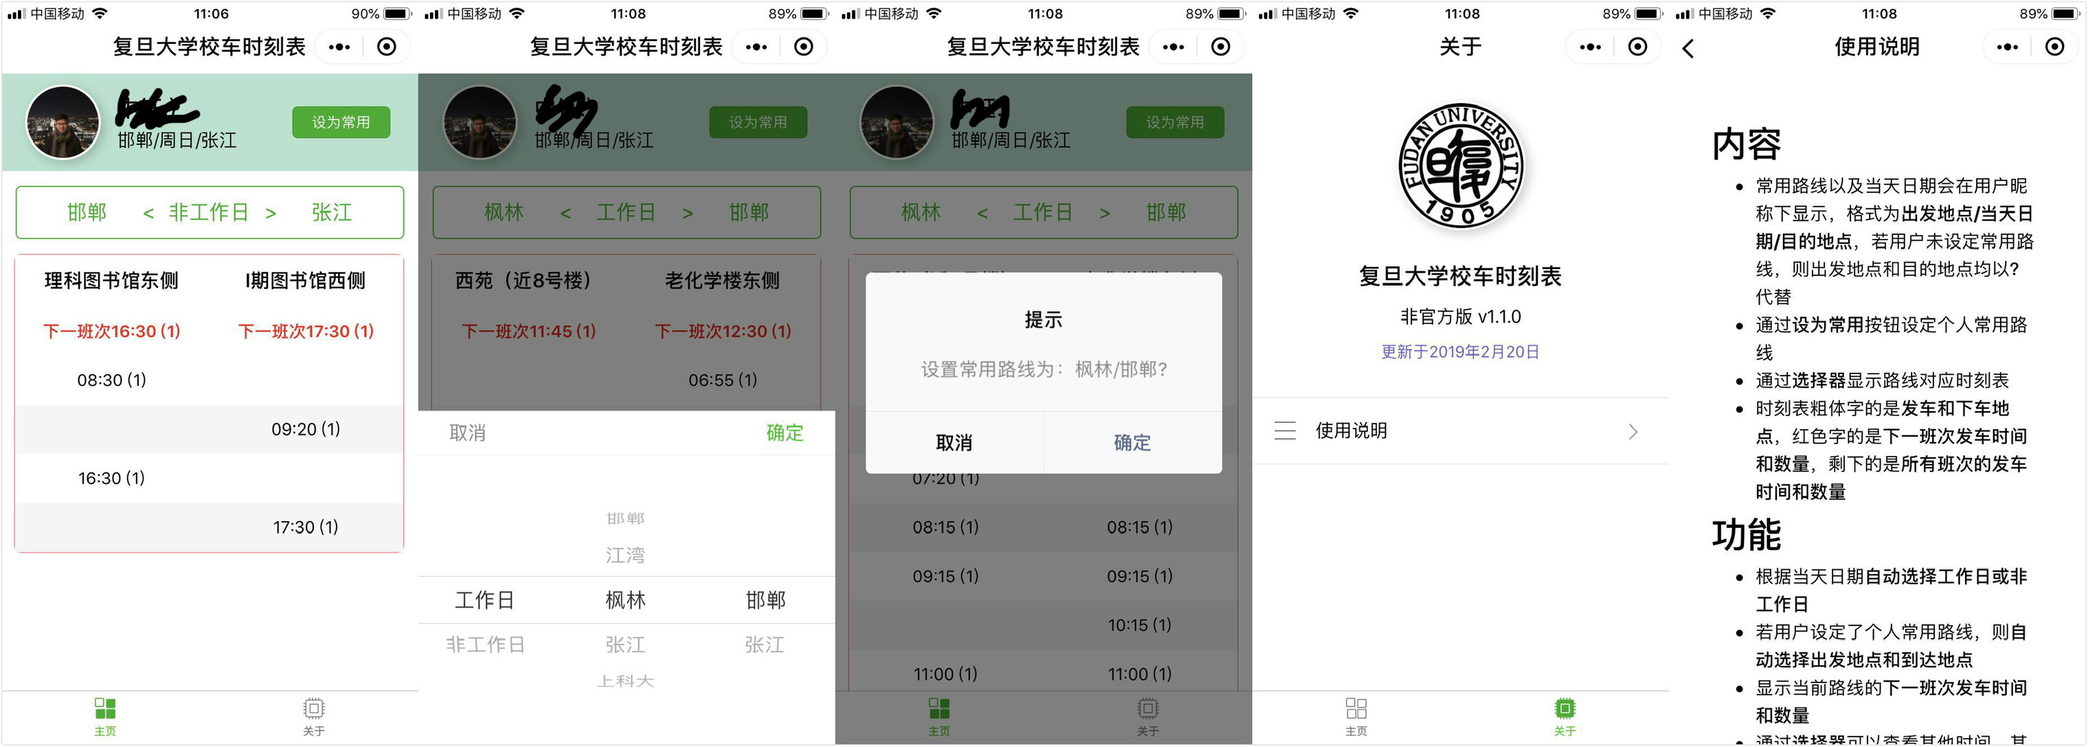
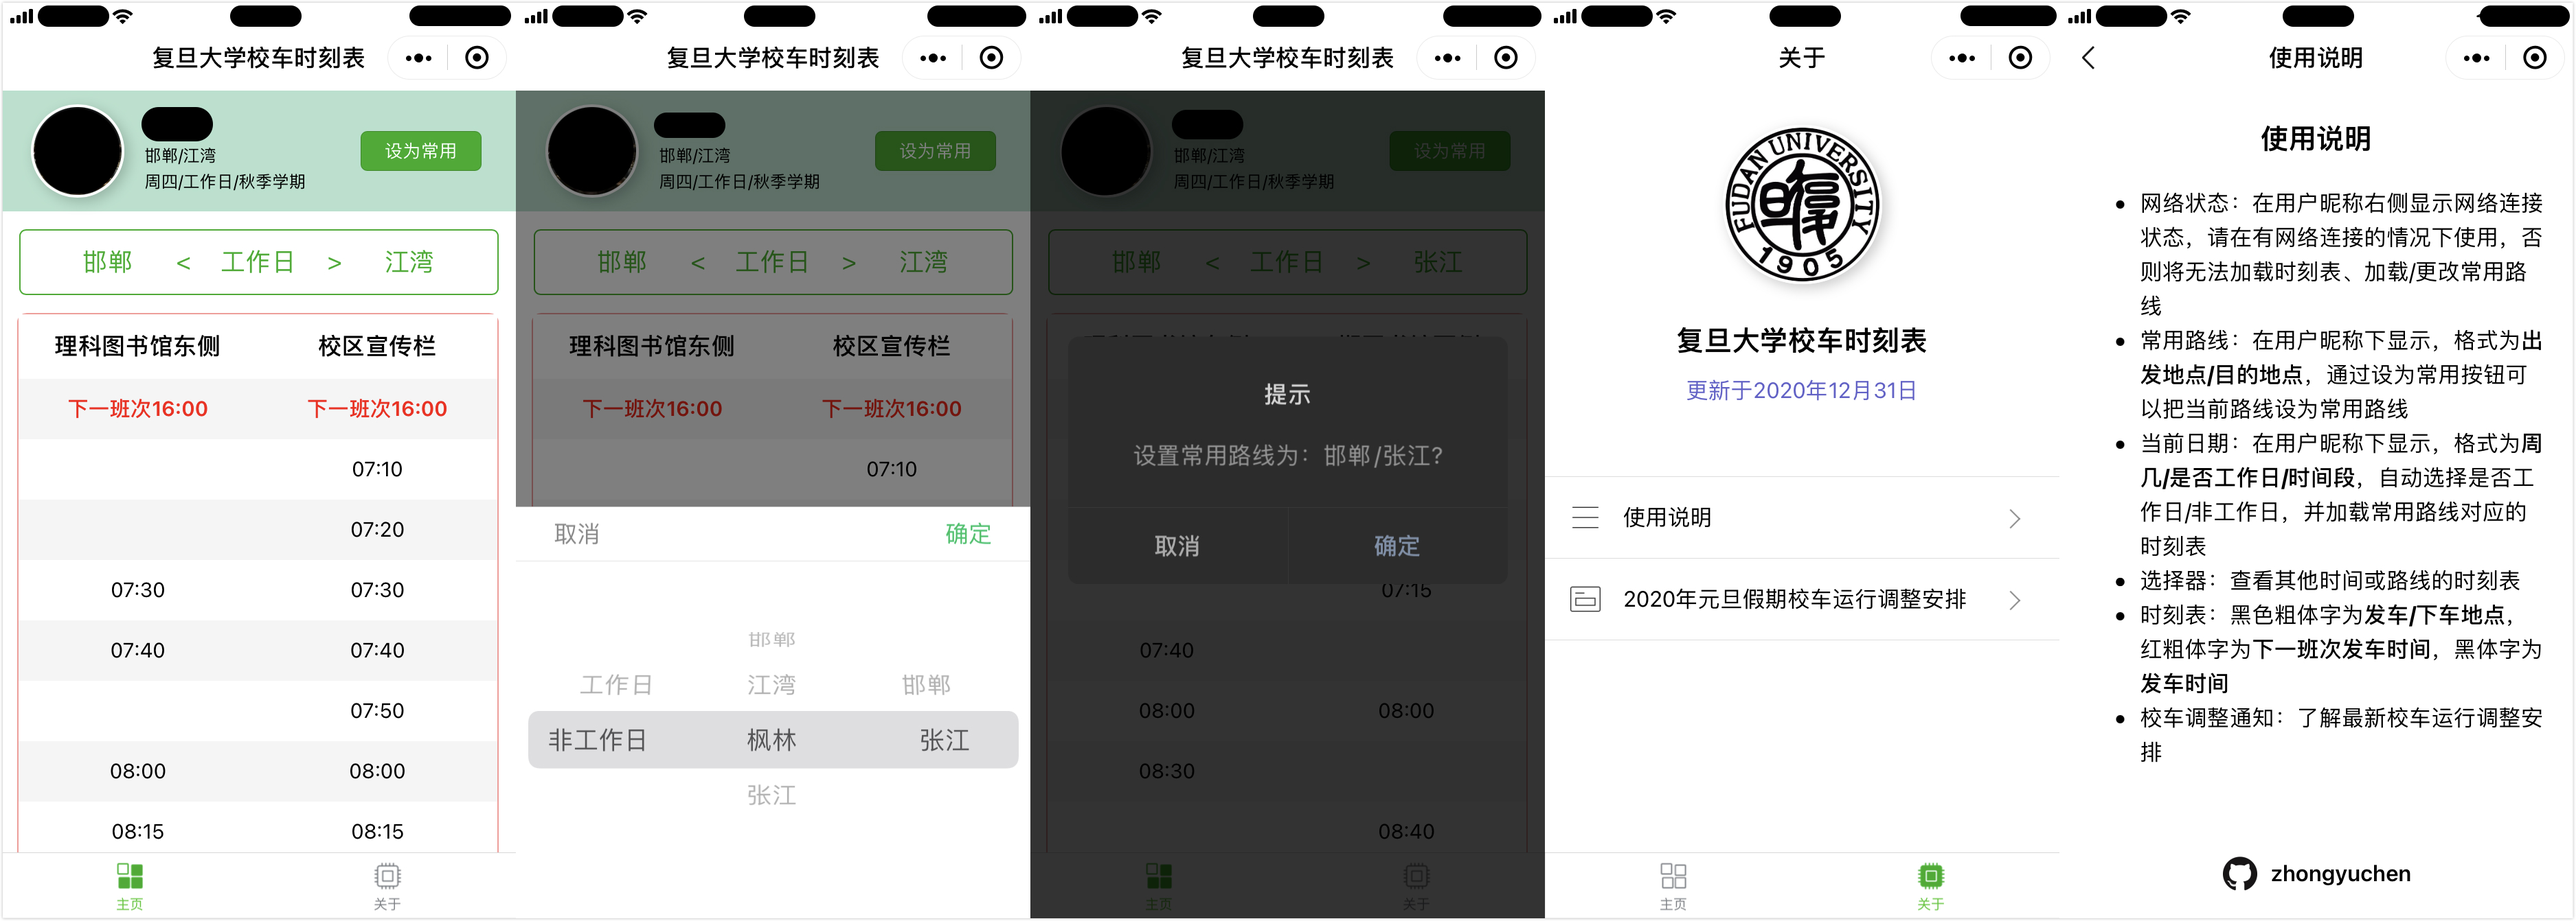
update readme

diff --git a/README.md b/README.md
@@ -4,9 +4,7 @@
 ![users](https://img.shields.io/badge/users-12%2C229-fc8d62.svg)
 ![likes](https://img.shields.io/badge/likes-2%2C976-red.svg)
 
-Bus schedule of Fudan University hosted on __WeChat Mini Program__ 
-capable of detecting current day of week and loading user's personal route when launching the app, 
-with a picker for choosing day of week, starting point and destination.
+Bus schedule of Fudan University hosted on __WeChat Mini Program__ / 复旦大学校车时刻表微信小程序
 
 ![ercode](pic/ercode.png)
 
@@ -16,23 +14,17 @@ with a picker for choosing day of week, starting point and destination.
 
 ## Features
 
-* __The bus schedule will be updated on time (?)__
-* A picker for choosing date, starting point and destination
-* The exact location of starting point and destination are shown at the table header
-* The departure time and amount of the next buses are shown at the second row of the timetable
-* The current day of week will be detected and chosen for you when launching the app
-* If a personal route has been set, it will be chosen for you when launching the app
-* Personal route can be set by clicking the `设为常用` button
-* Take user's network status into account
-    + If there's no network, change personal route is not allowed
-    + If network is disconnected, show toast
-    + If network is reconnected, show toast and reload user's info and personal route
-* Notice page for bus schedule related notice
+* 网络状态：在用户昵称右侧显示网络连接状态，请在有网络连接的情况下使用，否则将无法加载时刻表、加载/更改常用路线
+* 常用路线：在用户昵称下显示，格式为出发地点/目的地点，通过`设为常用`按钮可以把当前路线设为常用路线
+* 当前日期：在用户昵称下显示，格式为周几/是否工作日/时间段，自动选择是否工作日/非工作日，并加载常用路线对应的时刻表
+* 选择器：查看其他时间或路线的时刻表
+* 时刻表：黑色粗体字为发车/下车地点，红粗体字为下一班次发车时间，黑体字为发车时间
+* 校车调整通知：了解最新校车运行调整安排
 
 ## Prerequisites
 
 * Since `wx-server-sdk` is used for cloud functions, 
-`wx-server-sdk` dependencies have to be installed at __the root of each cloud function__ via the following command:
+`wx-server-sdk` dependencies have to be installed at __the root of every cloud function__ via the following command:
 ```commandline
 npm install --save wx-server-sdk@latest
 ```
@@ -40,12 +32,13 @@ npm install --save wx-server-sdk@latest
 ## Generate Timetable JSON File
 
 * Modify `INPUT_CSV` and `OUTPUT_JSON` in `files/tojson.py`
+* Modify `period` to signify the period of the timetable
 * Generate timetable json file:
 ```
 python files/tojson.py
 ```
-
-* Replace the timetable json variable in `data/timetable.js` with the new one
+* Upload the `.json` file into table `timetable` in database (for online update)
+* Replace the timetable json variable in `data/timetable.js` with the new one (for static use)
 
 ## Reference
 
@@ -56,7 +49,6 @@ python files/tojson.py
 ## Links
 
 * [微信公众平台](https://mp.weixin.qq.com/)
-* [Official notice on bus schedule of Fudan University](http://www.xyfw.fudan.edu.cn/p2049c1954/list.htm)
 * [Map of Fudan University](http://map.fudan.edu.cn)
 
 ## Author
